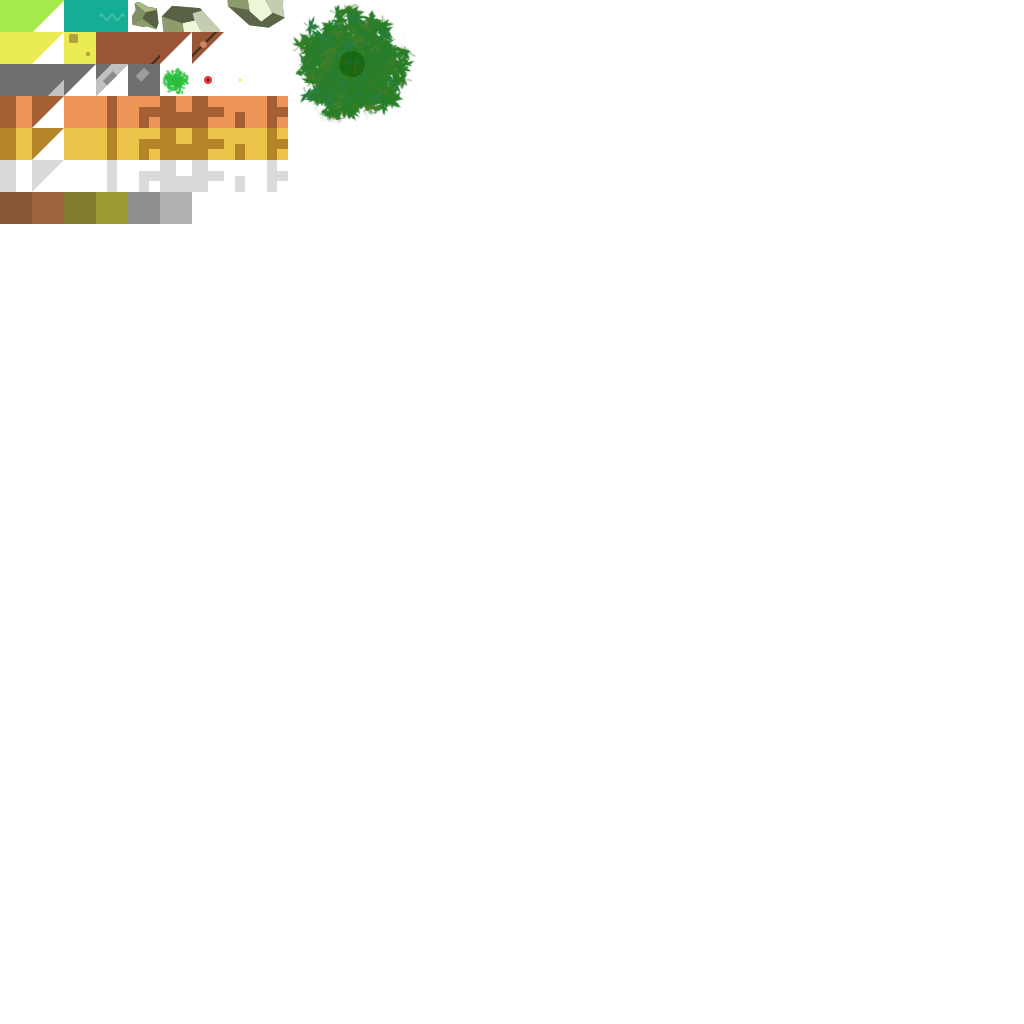
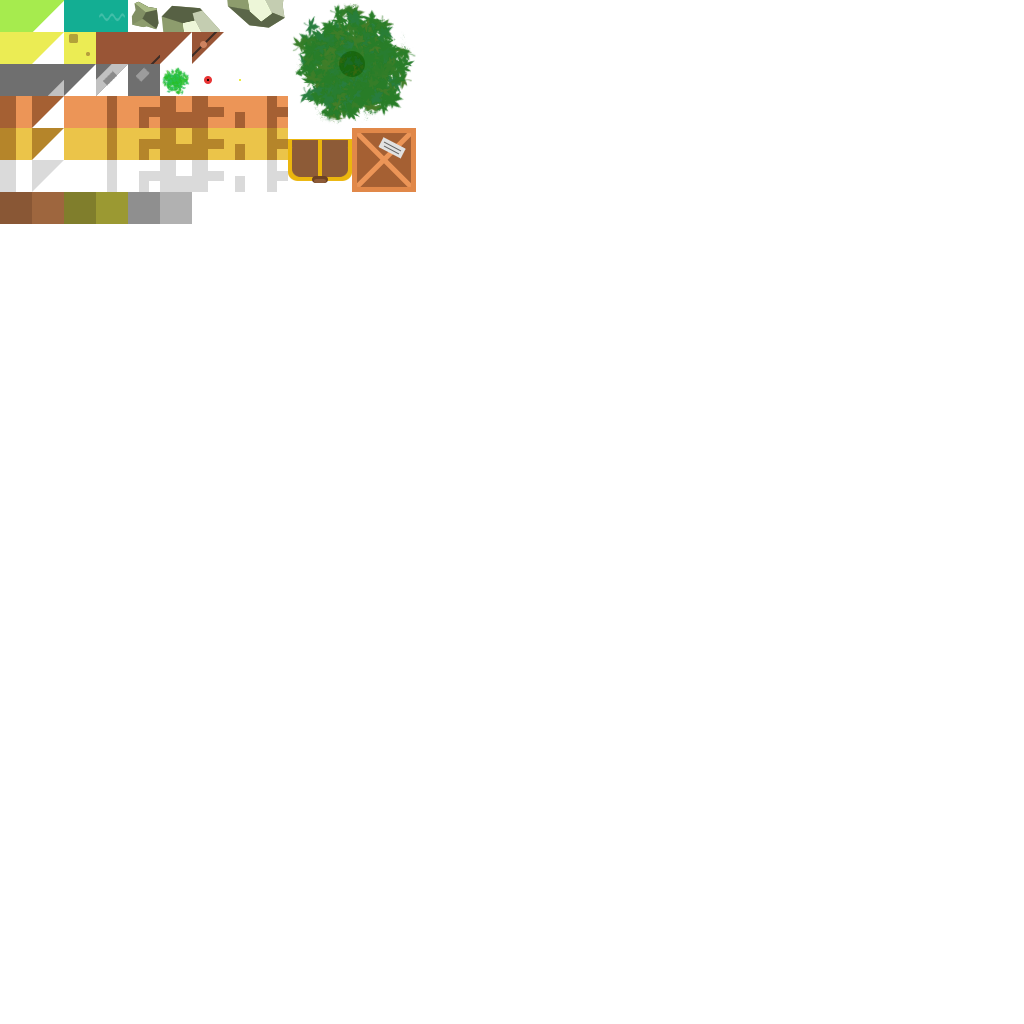
Add vignette, chests and crates

Changed region(s): [[0.2812, 0.125, 0.4062, 0.1875]]

diff --git a/core/src/com/bressio/rendezvous/events/RendezvousController.java b/core/src/com/bressio/rendezvous/events/RendezvousController.java
@@ -16,7 +16,7 @@ import static com.bressio.rendezvous.scheme.PhysicsAdapter.pScaleCenter;
 
 public class RendezvousController {
 
-    private float timeCount;
+    private float rendezvousTimeCount;
     private int secondsToNextEvent;
     private int event;
     private String rendezvousLabel;
@@ -31,6 +31,7 @@ public class RendezvousController {
     private Vector2[] safezoneOffsets;
 
     private Player player;
+    private float damageTimeCount;
 
     public RendezvousController(SpriteBatch batch, Internationalization i18n, HUD hud, ResourceHandler resources, Player player) {
         this.batch = batch;
@@ -62,7 +63,7 @@ public class RendezvousController {
 
     public void update(float delta) {
         if (event < 8) {
-            timeCount += delta;
+            rendezvousTimeCount += delta;
 
             if (secondsToNextEvent == -1) {
                 event++;
@@ -82,21 +83,25 @@ public class RendezvousController {
                 hud.updateTimeLabel(PhysicsAdapter.formatSeconds(secondsToNextEvent, false));
             }
 
-            if (timeCount >= 1) {
+            if (rendezvousTimeCount >= 1) {
                 hud.updateTimeLabel(PhysicsAdapter.formatSeconds(secondsToNextEvent - 1, false));
                 secondsToNextEvent--;
-                timeCount = 0;
+                rendezvousTimeCount = 0;
             }
         }
-        dealDamage();
+        dealDamage(delta);
     }
 
-    private void dealDamage() {
-        if (canDamagePlayer(8, 3, 7.5f) ||
-                canDamagePlayer(6, 2, 15.3f) ||
-                canDamagePlayer(4, 1, 22.8f) ||
-                canDamagePlayer(2, 0, 30.5f)) {
-            // player takes damage
+    private void dealDamage(float delta) {
+        damageTimeCount += delta;
+        if (damageTimeCount >= 1) {
+            if (canDamagePlayer(8, 3, 7.5f) ||
+                    canDamagePlayer(6, 2, 15.3f) ||
+                    canDamagePlayer(4, 1, 22.8f) ||
+                    canDamagePlayer(2, 0, 30.5f)) {
+                player.takeDangerZoneDamage();
+            }
+            damageTimeCount = 0;
         }
     }
 

diff --git a/core/src/com/bressio/rendezvous/forge/WorldBuilder.java b/core/src/com/bressio/rendezvous/forge/WorldBuilder.java
@@ -27,7 +27,9 @@ public class WorldBuilder {
         TREE(2),
         BUILDING(3),
         PLAYER_SPAWN_POINTS(4),
-        BUILDING_SENSOR(5);
+        BUILDING_SENSOR(5),
+        CHEST(6),
+        CRATE(7);
         Layer(int layer) { this.layer = layer; }
         private final int layer;
     }
@@ -65,6 +67,26 @@ public class WorldBuilder {
 
         // buildings
         for (MapObject object : map.getLayers().get(Layer.BUILDING.layer).getObjects().getByType(RectangleMapObject.class)) {
+            Rectangle rect = ((RectangleMapObject) object).getRectangle();
+            new BodyBuilder(world, pScale(rect.getX() + pCenter(rect.getWidth()), rect.getY() + pCenter(rect.getHeight())))
+                    .withBodyType(BodyDef.BodyType.StaticBody)
+                    .withWidth(pScaleCenter(rect.getWidth()))
+                    .withHeight(pScaleCenter(rect.getHeight()))
+                    .build();
+        }
+
+        // chests
+        for (MapObject object : map.getLayers().get(Layer.CHEST.layer).getObjects().getByType(RectangleMapObject.class)) {
+            Rectangle rect = ((RectangleMapObject) object).getRectangle();
+            new BodyBuilder(world, pScale(rect.getX() + pCenter(rect.getWidth()), rect.getY() + pCenter(rect.getHeight())))
+                    .withBodyType(BodyDef.BodyType.StaticBody)
+                    .withWidth(pScaleCenter(rect.getWidth()))
+                    .withHeight(pScaleCenter(rect.getHeight()))
+                    .build();
+        }
+
+        // crates
+        for (MapObject object : map.getLayers().get(Layer.CRATE.layer).getObjects().getByType(RectangleMapObject.class)) {
             Rectangle rect = ((RectangleMapObject) object).getRectangle();
             new BodyBuilder(world, pScale(rect.getX() + pCenter(rect.getWidth()), rect.getY() + pCenter(rect.getHeight())))
                     .withBodyType(BodyDef.BodyType.StaticBody)

diff --git a/core/src/com/bressio/rendezvous/entities/Building.java b/core/src/com/bressio/rendezvous/entities/Building.java
@@ -11,6 +11,7 @@ import static com.bressio.rendezvous.scheme.PhysicsAdapter.pUnscale;
 public class Building extends InteractiveObject{
 
     private int[][] ceilingTileIds;
+    private final int CEILING_LAYER = 23;
 
     public Building(World world, TiledMap map, Rectangle bounds) {
         super(world, map, bounds, true, BUILDING_TAG);
@@ -20,7 +21,7 @@ public class Building extends InteractiveObject{
 
     private void storeCeilingTileIds() {
         ceilingTileIds = new int[31][31];
-        TiledMapTileLayer layer = (TiledMapTileLayer) getMap().getLayers().get(20);
+        TiledMapTileLayer layer = (TiledMapTileLayer) getMap().getLayers().get(CEILING_LAYER);
         for (int i = -15; i <= 15; i++) {
             for (int j = -15; j <= 15; j++) {
                 if (layer.getCell((int)((pUnscale(getBody().getPosition().x) / 32) - i),
@@ -33,7 +34,7 @@ public class Building extends InteractiveObject{
     }
 
     private void hideCeiling() {
-        TiledMapTileLayer layer = (TiledMapTileLayer) getMap().getLayers().get(20);
+        TiledMapTileLayer layer = (TiledMapTileLayer) getMap().getLayers().get(CEILING_LAYER);
         for (int i = -15; i <= 15; i++) {
             for (int j = -15; j <= 15; j++) {
                 if (layer.getCell((int)((pUnscale(getBody().getPosition().x) / 32) - i),
@@ -46,7 +47,7 @@ public class Building extends InteractiveObject{
     }
 
     private void showCeiling() {
-        TiledMapTileLayer layer = (TiledMapTileLayer) getMap().getLayers().get(20);
+        TiledMapTileLayer layer = (TiledMapTileLayer) getMap().getLayers().get(CEILING_LAYER);
         for (int i = -15; i <= 15; i++) {
             for (int j = -15; j <= 15; j++) {
                 if (layer.getCell((int)((pUnscale(getBody().getPosition().x) / 32) - i),

diff --git a/core/src/com/bressio/rendezvous/graphics/ResourceHandler.java b/core/src/com/bressio/rendezvous/graphics/ResourceHandler.java
@@ -28,7 +28,8 @@ public final class ResourceHandler implements Disposable {
         HEALTH_BAR("textures/gui/health/health-bar.png"),
         ARMOR_BAR("textures/gui/health/armor-bar.png"),
         HEALTH_ICON("textures/gui/health/health-icon.png"),
-        ARMOR_ICON("textures/gui/health/armor-icon.png");
+        ARMOR_ICON("textures/gui/health/armor-icon.png"),
+        VIGNETTE("textures/overlay/vignette.png");
         private String path;
         TexturePath(String path) { this.path = path; }
     }
@@ -111,6 +112,7 @@ public final class ResourceHandler implements Disposable {
         assetManager.load(TexturePath.ARMOR_BAR.path, Texture.class);
         assetManager.load(TexturePath.HEALTH_ICON.path, Texture.class);
         assetManager.load(TexturePath.ARMOR_ICON.path, Texture.class);
+        assetManager.load(TexturePath.VIGNETTE.path, Texture.class);
         assetManager.finishLoading();
     }
 

diff --git a/core/src/com/bressio/rendezvous/gui/HUD.java b/core/src/com/bressio/rendezvous/gui/HUD.java
@@ -47,6 +47,8 @@ public class HUD implements Disposable {
     private Label healthPoints;
     private Label armorPoints;
 
+    private Texture vignette;
+
     public HUD(SpriteBatch batch, ResourceHandler resources) {
         this.batch = batch;
         viewport = new FitViewport(GAME_WIDTH, GAME_HEIGHT, new OrthographicCamera());
@@ -94,8 +96,15 @@ public class HUD implements Disposable {
                 new Label.LabelStyle(FontGenerator.generate(ResourceHandler.FontPath.BOMBARD, 14, false), Color.WHITE));
         table.add(healthPoints).padBottom(15).padLeft(-350);
 
-
         stage.addActor(table);
+
+        vignette = resources.getTexture(ResourceHandler.TexturePath.VIGNETTE);
+    }
+
+    public void drawVignette(float delta) {
+        batch.begin();
+        batch.draw(vignette, 0, 0);
+        batch.end();
     }
 
     public void drawMinimap(float delta, Vector2 playerPosition) {

diff --git a/core/src/com/bressio/rendezvous/entities/Player.java b/core/src/com/bressio/rendezvous/entities/Player.java
@@ -11,6 +11,8 @@ import static com.bressio.rendezvous.scheme.PhysicsAdapter.*;
 
 public class Player extends Soldier {
 
+    private boolean isTakingDamage;
+
     public Player(World world, Match match, float radius, float linearDamping, int speed, Vector2 position) {
         super(world, match, position.x, position.y, radius, linearDamping, speed, AnimationRegion.PLAYER, PLAYER_TAG,
                 (short) (DEFAULT_TAG | BUILDING_TAG), "player");
@@ -67,5 +69,9 @@ public class Player extends Soldier {
             angle += 360;
         }
         setRotation(angle - 90);
+    }
+
+    public void takeDangerZoneDamage() {
+        setHealth(-5);
     }
 }

diff --git a/core/src/com/bressio/rendezvous/entities/object/EntityObject.java b/core/src/com/bressio/rendezvous/entities/object/EntityObject.java
@@ -1,0 +1,17 @@
+package com.bressio.rendezvous.entities.object;
+
+import com.badlogic.gdx.physics.box2d.World;
+import com.bressio.rendezvous.entities.Entity;
+import com.bressio.rendezvous.scenes.Match;
+
+public class EntityObject extends Entity {
+
+    EntityObject(World world, Match match, float x, float y, String animationRegion) {
+        super(world, match, x, y, animationRegion);
+    }
+
+    @Override
+    protected void create() {
+
+    }
+}

diff --git a/core/src/com/bressio/rendezvous/scenes/Match.java b/core/src/com/bressio/rendezvous/scenes/Match.java
@@ -220,9 +220,10 @@ public class Match implements Screen {
 
         overRenderer.render();
 
-        rendezvousController.updateGraphics(delta);
+        //rendezvousController.updateGraphics(delta);
 
         game.getBatch().setProjectionMatrix(hud.getStage().getCamera().combined);
+        hud.drawVignette(delta);
         hud.drawHealthBars(delta, player.getHealth(), player.getArmor());
         hud.getStage().draw();
 

diff --git a/core/src/com/bressio/rendezvous/entities/Entity.java b/core/src/com/bressio/rendezvous/entities/Entity.java
@@ -14,7 +14,7 @@ public abstract class Entity extends Sprite {
     private Body body;
     private Vector2 position;
 
-    Entity(World world, Match match, float x, float y, String animationRegion) {
+    protected Entity(World world, Match match, float x, float y, String animationRegion) {
         super(match.getAtlas().findRegion(animationRegion));
         this.world = world;
         position = pScale(x, y);

diff --git a/core/src/com/bressio/rendezvous/entities/Soldier.java b/core/src/com/bressio/rendezvous/entities/Soldier.java
@@ -69,4 +69,8 @@ public abstract class Soldier extends Entity {
     public int getArmor() {
         return armor;
     }
+
+    public void setHealth(int difference) {
+        health = health + difference < 0 ? 0 : health + difference > 100 ? 100 : health + difference;
+    }
 }

diff --git a/core/src/com/bressio/rendezvous/entities/object/Medkit.java b/core/src/com/bressio/rendezvous/entities/object/Medkit.java
@@ -1,0 +1,4 @@
+package com.bressio.rendezvous.entities.object;
+
+public class Medkit {
+}
